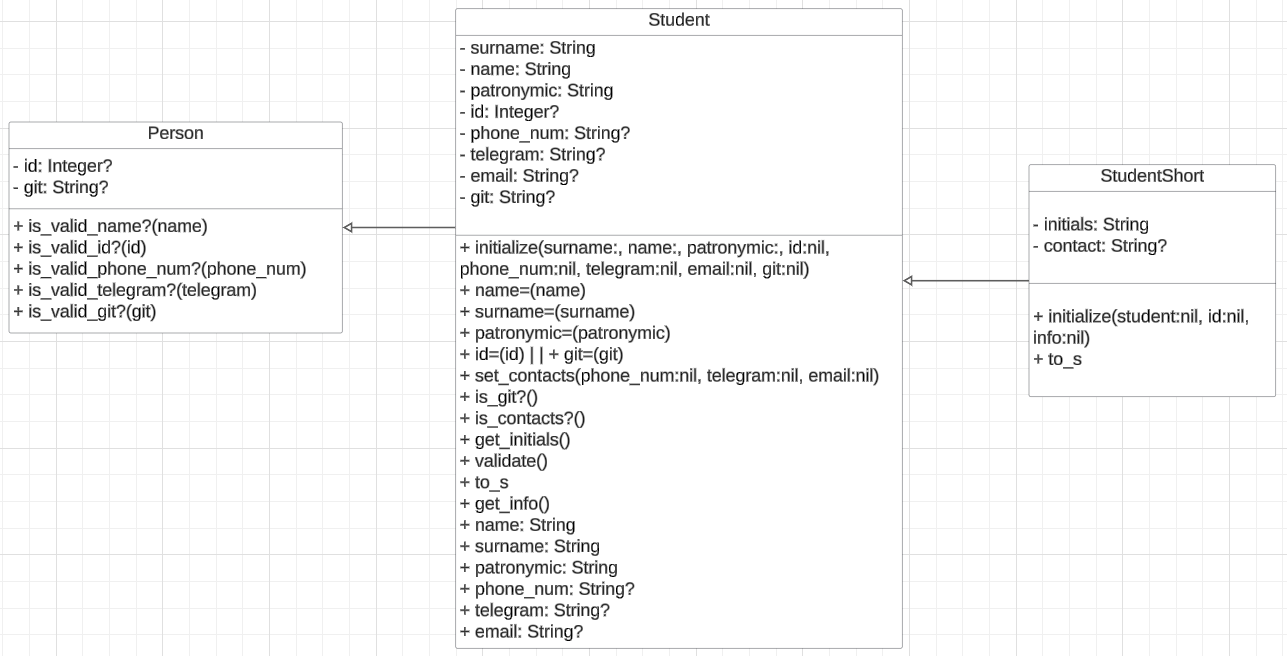
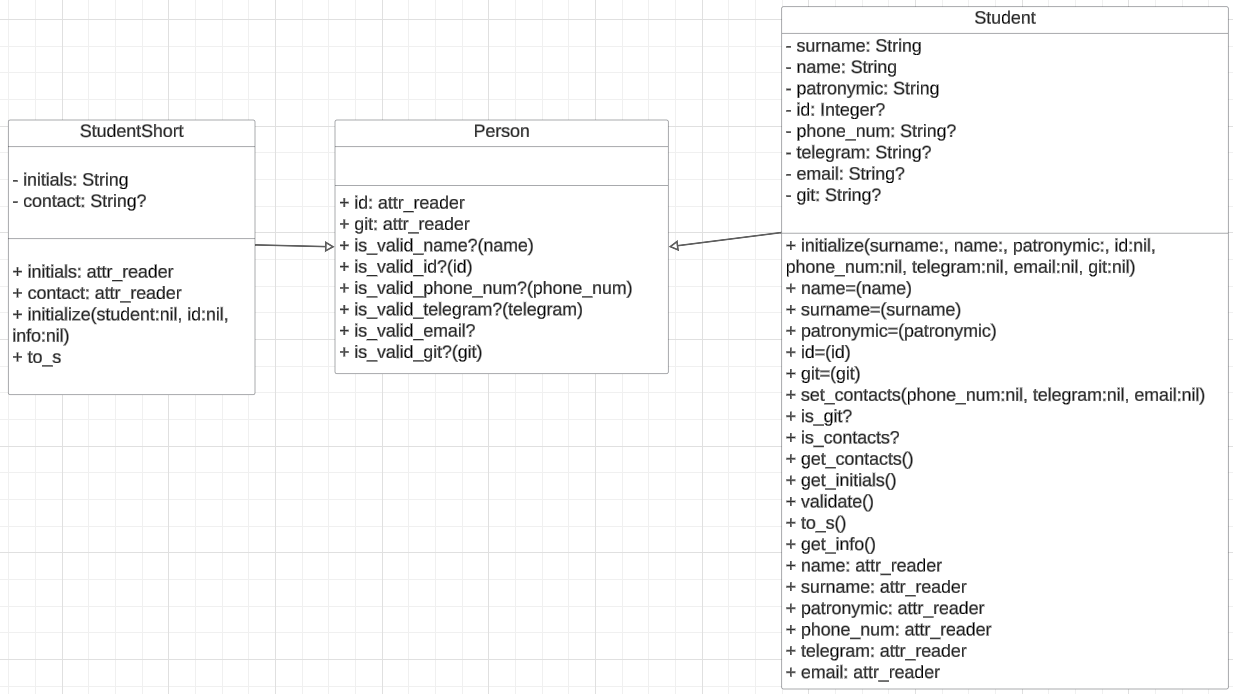
L2 T2 Diagrams and classes are slightly changed

diff --git a/Class Student/student_class.rb b/Class Student/student_class.rb
@@ -39,6 +39,7 @@ class Person
 		!!(git == nil || git =~ /^https?:\/\/(www\.)?github\.com\/[A-Za-z0-9_-]+(\/[A-Za-z0-9._-]+)?(\/.*)?$/)
 	end
 end
+
 class Student < Person
 	
 	##Object initialization
@@ -116,12 +117,18 @@ class Student < Person
 	## Check git existence
 	
 	def is_git?
-		!@git.nil? ? @git : "No GitHub link"
+		!@git.nil?
 	end
 	
 	## Check contacts existence
 	
 	def is_contacts?
+		!@phone_num.nil? || !@telegram.nil? || !@email.nil?
+	end
+	
+	## Get any contact
+	
+	def get_contacts
 		if !@phone_num.nil?
 			@phone_num
 		elsif !@telegram.nil?
@@ -132,6 +139,8 @@ class Student < Person
 			"No contacts"
 		end
 	end
+	
+	## Get initials
 	
 	def get_initials
 		"#{surname} #{name[0]}. #{patronymic[0]}."
@@ -161,29 +170,30 @@ class Student < Person
 	end
 	
 end
-class StudentShort < Student
-	attr_reader :initials, :contact
-	
-	def initialize (student:nil, id:nil, info:nil)
-		if student 
-			@id = student.id
-			@initials = student.get_initials
-			@git = student.git
-			@contact = student.is_contacts?
-		else
-			@id = id
-			info_list = info.split(' ')
-			@initials = info_list[0] + " " + info_list[1]
-			@git = info_list[2]
-			@contact = info_list[3]
-		end
-	end
-	
-	def to_s
-		"\n#{initials}:" +\
-		(id ? ("\nID - #{@id}") : "")  +\
-		(contact ? ("\nContact information - #{@contact}") : "") +\
-		(git ? ("\nGitHub - #{@git}\n") : "")
-	end
-	
+class StudentShort < Person
+  attr_reader :initials, :contact
+
+  def initialize(student: nil, id: nil, info: nil)
+    if student
+      @id = student.id
+      @initials = student.get_initials
+      @git = student.git
+      @contact = student.get_contacts
+    elsif id && info
+      @id = id
+      info_list = info.split(' ')
+      @initials = info_list[0] + " " + info_list[1]
+      @git = info_list[2]
+      @contact = info_list[3]
+    else
+      raise ArgumentError, "Either provide a Student object or both id and info string"
+    end
+  end
+  
+  def to_s
+    "\n#{initials}:" +\
+    (id ? ("\nID - #{@id}") : "") +\
+    (contact ? ("\nContact information - #{@contact}") : "") +\
+    (git ? ("\nGitHub - #{@git}\n") : "")
+  end
 end
